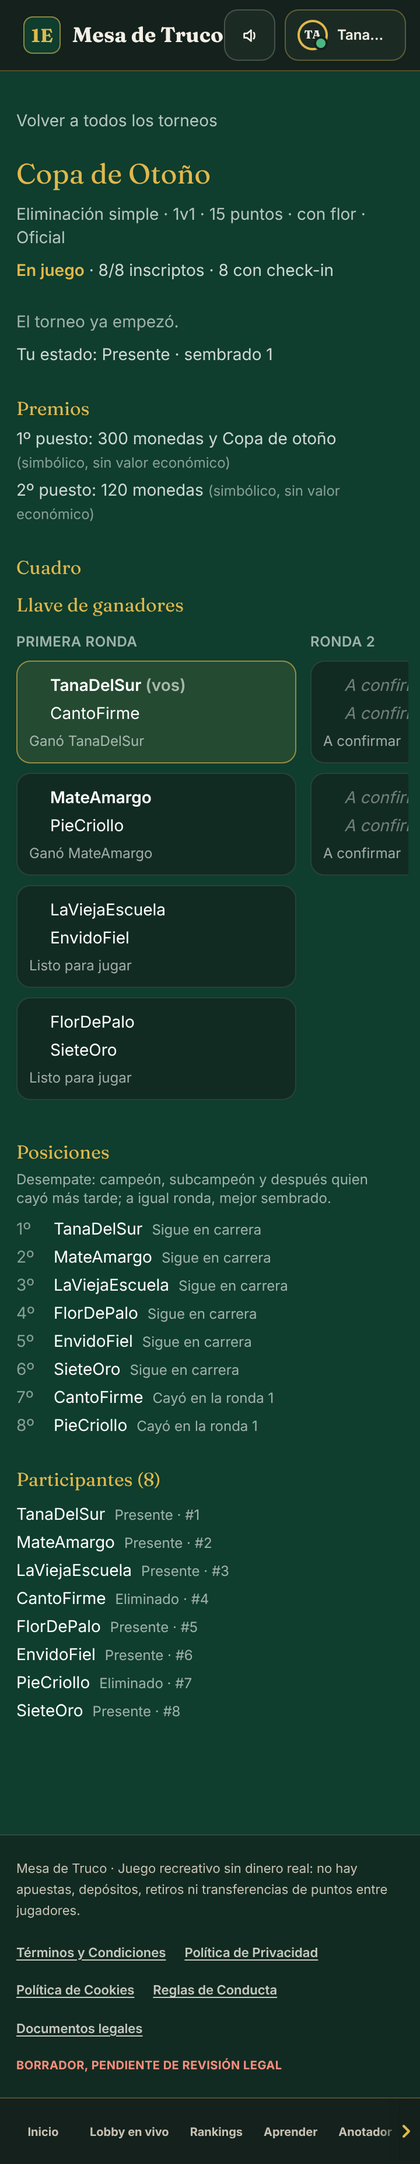
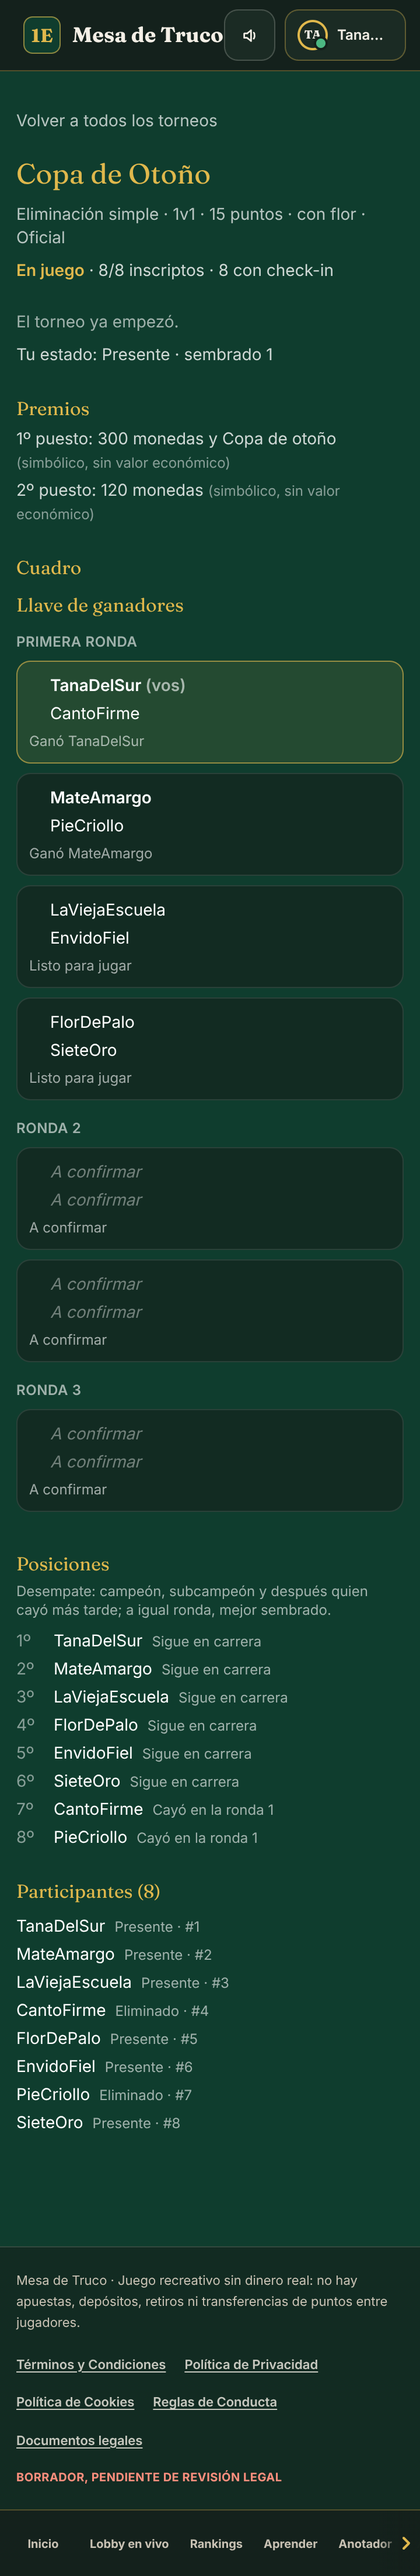
fix(web): el detalle de un torneo por equipos se lee entero a 360 px
Tres cosas que se vieron recién al mirar la captura del torneo 2v2:

- "Participantes (0)" aparecía como un cartel vacío en un torneo por equipos,
  donde la lista que cuenta es la de equipos. La sección ahora sólo se muestra
  si hay participantes.
- La ronda siguiente del cuadro quedaba cortada en el borde a 360 px y parecía
  un layout roto. En móvil las rondas se apilan (primera ronda y después la
  segunda); desde `sm` vuelven a ir en fila.
- El cruce del propio equipo ahora se resalta igual que el de un jugador en 1v1:
  en 2v2 el lado es el equipo, no la persona.

Capturas nuevas de la pantalla de equipos a 360 y 1200 px, y el fixture del
script de capturas al día con los campos de equipo del contrato.

diff --git a/apps/web/src/features/tournaments/TournamentBracket.tsx b/apps/web/src/features/tournaments/TournamentBracket.tsx
@@ -1,14 +1,15 @@
-import type { TournamentFormat, TournamentMatchView } from '@truco/shared';
+import type { TournamentFormat, TournamentMatchView, TournamentTeamView } from '@truco/shared';
 import { describeMatch, groupBracket, roundLabel } from './tournament-bracket.js';
 
 /**
  * Cuadro de torneo (M10a).
  *
- * En 360 px el cuadro no cabe de costado, así que **cada ronda es una lista vertical**
- * dentro de un contenedor con scroll horizontal por sección: se lee de arriba abajo y se
- * desplaza de ronda en ronda. No se usan flechas ni líneas entre cruces —que a ese
- * ancho se vuelven ilegibles—; la relación se explica con el texto del rival ("espera
- * al ganador de…") y con los encabezados de ronda.
+ * En 360 px el cuadro no cabe de costado: las rondas se apilan **una debajo de la otra**
+ * (primera ronda, después la segunda) en vez de pedir un desplazamiento horizontal, que
+ * dejaba la ronda siguiente cortada al borde y parecía un layout roto. A partir de `sm`
+ * las rondas vuelven a ir en fila. No se usan flechas ni líneas entre cruces —a ese ancho
+ * se vuelven ilegibles—; la relación se explica con el texto del rival ("espera al
+ * ganador de…") y con los encabezados de ronda.
  *
  * Accesibilidad: el cuadro es una lista anidada (`ul`/`li`) con encabezados reales, cada
  * cruce es un `article` con un nombre accesible completo, y el estado nunca depende sólo
@@ -18,12 +19,20 @@ export function TournamentBracket({
   matches,
   format,
   currentUserId,
+  teams = [],
 }: {
   readonly matches: readonly TournamentMatchView[];
   readonly format: TournamentFormat;
   readonly currentUserId: string | null;
+  /** Equipos del torneo: en 2v2 el lado es un equipo y el cruce propio se marca igual. */
+  readonly teams?: readonly TournamentTeamView[];
 }) {
   const sections = groupBracket(matches, format);
+  const myTeamIds = new Set(
+    teams
+      .filter((team) => team.members.some((member) => member.userId === currentUserId))
+      .map((team) => team.id),
+  );
 
   if (sections.length === 0) {
     return (
@@ -43,16 +52,23 @@ export function TournamentBracket({
           {/* Scroll horizontal sólo si hace falta; el foco y el lector de pantalla
               recorren la lista completa igual. */}
           <div className="-mx-1 overflow-x-auto px-1 pb-2">
-            <ul className="flex min-w-full gap-3">
+            <ul className="flex min-w-full flex-col gap-4 sm:flex-row sm:gap-3">
               {section.rounds.map((round) => (
-                <li key={round.round} className="min-w-[15rem] flex-1 space-y-2">
+                <li
+                  key={round.round}
+                  className="w-full space-y-2 sm:w-auto sm:min-w-[15rem] sm:flex-1"
+                >
                   <h4 className="text-xs font-semibold tracking-wide text-white/60 uppercase">
                     {roundLabel(section.bracket, round.round)}
                   </h4>
                   <ul className="space-y-2">
                     {round.matches.map((match) => (
                       <li key={match.id}>
-                        <MatchCard match={match} currentUserId={currentUserId} />
+                        <MatchCard
+                          match={match}
+                          currentUserId={currentUserId}
+                          myTeamIds={myTeamIds}
+                        />
                       </li>
                     ))}
                   </ul>
@@ -69,13 +85,18 @@ export function TournamentBracket({
 function MatchCard({
   match,
   currentUserId,
+  myTeamIds,
 }: {
   readonly match: TournamentMatchView;
   readonly currentUserId: string | null;
+  readonly myTeamIds: ReadonlySet<string>;
 }) {
   const isMine =
     currentUserId !== null &&
-    (match.homeUserId === currentUserId || match.awayUserId === currentUserId);
+    (match.homeUserId === currentUserId ||
+      match.awayUserId === currentUserId ||
+      (match.homeTeamId !== null && myTeamIds.has(match.homeTeamId)) ||
+      (match.awayTeamId !== null && myTeamIds.has(match.awayTeamId)));
   const finished = match.status === 'COMPLETED' || match.status === 'FORFEITED';
 
   return (

diff --git a/apps/web/src/features/tournaments/TournamentDetailScreen.tsx b/apps/web/src/features/tournaments/TournamentDetailScreen.tsx
@@ -395,6 +395,7 @@ export function TournamentDetailScreen({
             matches={detail.matches}
             format={tournament.format}
             currentUserId={currentUserId}
+            teams={detail.teams}
           />
         </div>
       </section>
@@ -446,25 +447,29 @@ export function TournamentDetailScreen({
         </section>
       ) : null}
 
-      <section aria-labelledby="tournament-participants">
-        <h2 id="tournament-participants" className="font-display text-base text-gold">
-          Participantes ({detail.participants.length})
-        </h2>
-        <ul className="mt-2 space-y-1">
-          {detail.participants.map((participant) => (
-            <li
-              key={participant.userId}
-              className="flex min-w-0 flex-wrap items-baseline gap-x-2 text-sm"
-            >
-              <span className="min-w-0 break-words text-white">{participant.nickname}</span>
-              <span className="text-xs text-white/60">
-                {PARTICIPANT_STATUS_LABELS_ES_AR[participant.status] ?? participant.status}
-                {participant.seed ? ` · #${participant.seed}` : ''}
-              </span>
-            </li>
-          ))}
-        </ul>
-      </section>
+      {/* Un torneo por equipos no tiene participantes sueltos: la lista de equipos de
+          arriba es la que cuenta. Mostrar "Participantes (0)" es un cartel vacío. */}
+      {detail.participants.length > 0 ? (
+        <section aria-labelledby="tournament-participants">
+          <h2 id="tournament-participants" className="font-display text-base text-gold">
+            Participantes ({detail.participants.length})
+          </h2>
+          <ul className="mt-2 space-y-1">
+            {detail.participants.map((participant) => (
+              <li
+                key={participant.userId}
+                className="flex min-w-0 flex-wrap items-baseline gap-x-2 text-sm"
+              >
+                <span className="min-w-0 break-words text-white">{participant.nickname}</span>
+                <span className="text-xs text-white/60">
+                  {PARTICIPANT_STATUS_LABELS_ES_AR[participant.status] ?? participant.status}
+                  {participant.seed ? ` · #${participant.seed}` : ''}
+                </span>
+              </li>
+            ))}
+          </ul>
+        </section>
+      ) : null}
     </div>
   );
 }
